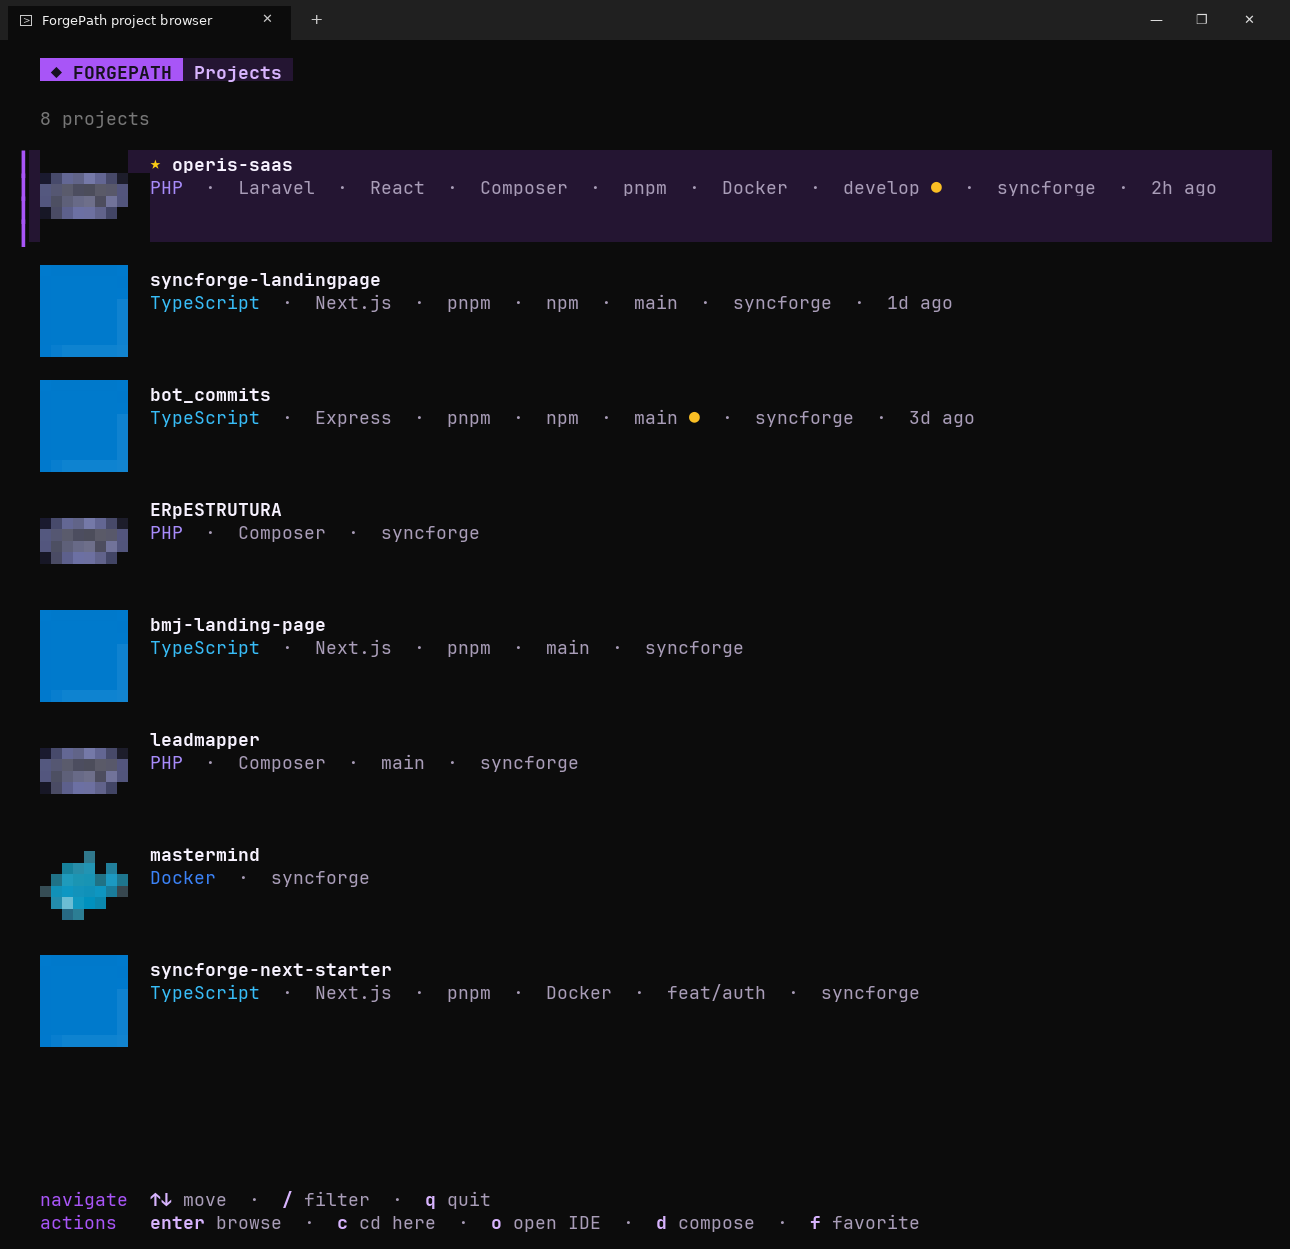
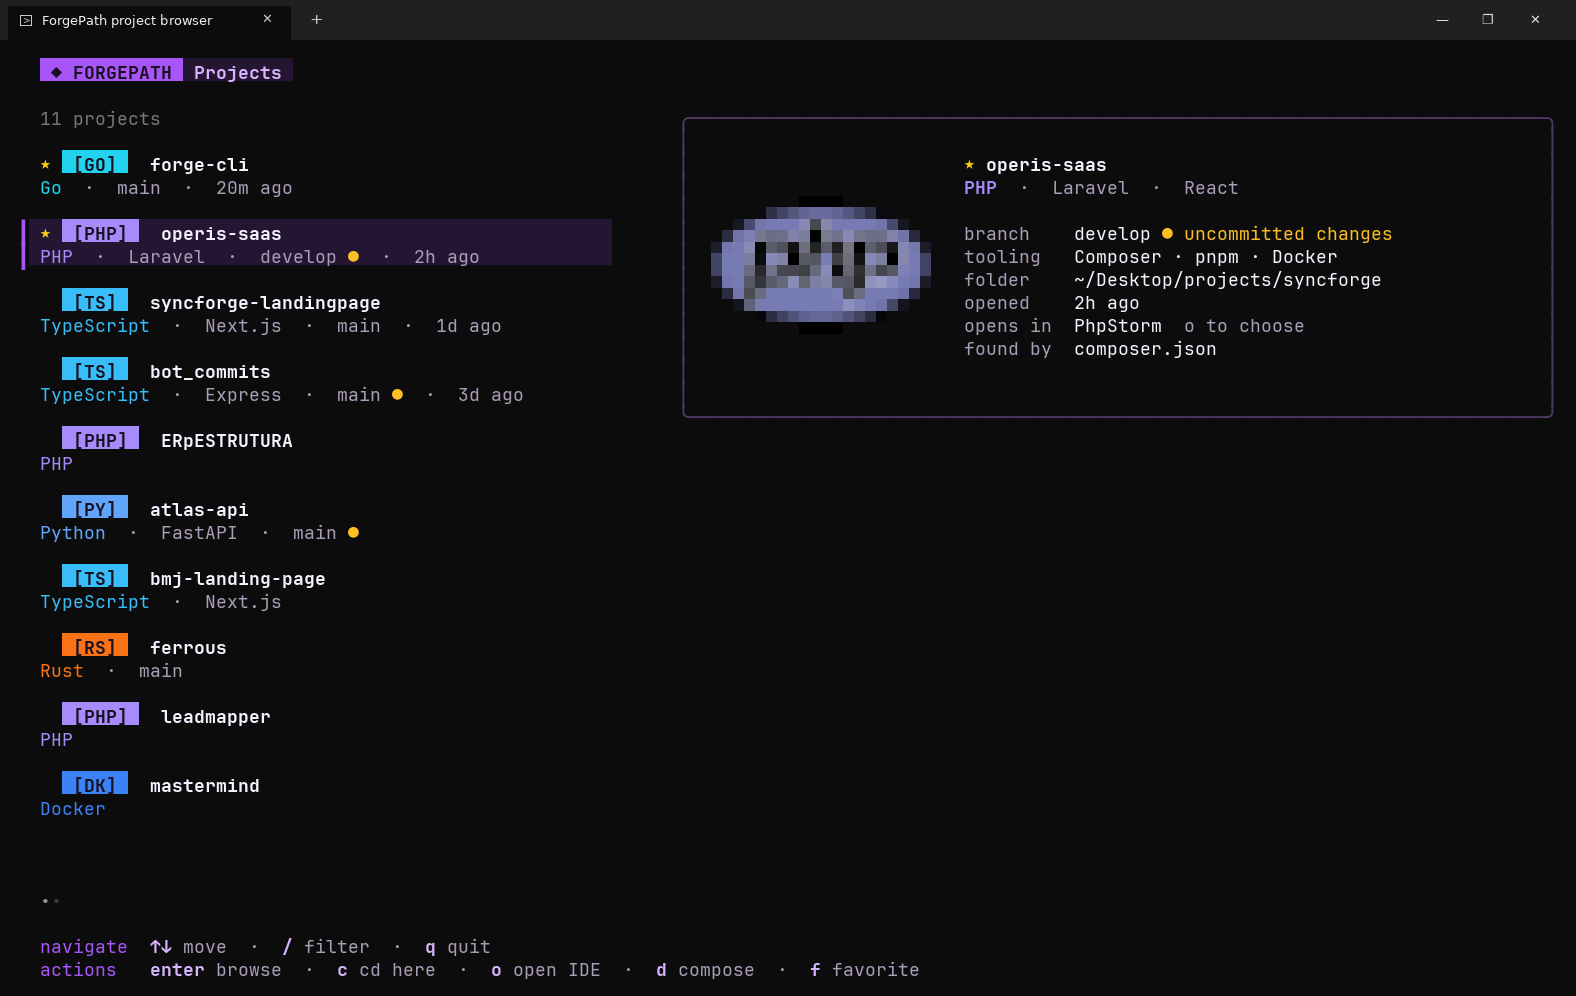
docs: document the inspector panel and update the screenshot

diff --git a/README.pt-BR.md b/README.pt-BR.md
@@ -16,7 +16,7 @@ O ForgePath centraliza esse fluxo de trabalho em uma interface interativa de ter
 
 ![Demonstração do ForgePath CLI](docs/demo.png)
 
-*A lista de projetos: favoritos primeiro, projetos recentes com quando foram abertos pela última vez, a branch Git com ● para mudanças não commitadas e o rodapé com todas as ações da tela.*
+*A lista de projetos com o painel de inspeção: o logo, o estado do Git, as ferramentas, a pasta e a IDE sugerida do projeto selecionado. Os favoritos vêm primeiro, e os projetos recentes mostram quando foram abertos pela última vez.*
 
 ## Objetivos
 
@@ -75,6 +75,7 @@ Os frameworks e ferramentas compatíveis incluem:
 * Pesquisar projetos com filtro fuzzy
 * Navegar com as setas renderizando apenas os projetos visíveis
 * Navegar pelas pastas dos projetos sem sair da interface do terminal
+* Mostrar o item selecionado num painel de inspeção em terminais largos: o logo da tecnologia, o estado do Git, as ferramentas, a pasta, quando foi aberto e a IDE sugerida, o conteúdo de uma pasta ou o arquivo Docker Compose antes de ser gerado
 * Renderizar os logos Devicon embutidos com pixels ANSI truecolor
 * Mostrar a branch atual do Git
 * Indicar alterações não commitadas
@@ -311,7 +312,7 @@ fg pick --print-path
 
 Navega pelos projetos e imprime o diretório atual somente depois que `c` é pressionado. Essa saída legível por máquina é usada pela integração com o shell.
 
-O seletor incorpora os SVGs locais do Devicon no binário, rasteriza os arquivos e renderiza suas cores reais com pixels ANSI de meio bloco por padrão. Isso não exige Nerd Font nem um protocolo de imagens específico do terminal. Use badges de texto ou glifos Nerd Font explicitamente quando preferir:
+Em terminais com pelo menos 100 colunas, o seletor mostra um painel de inspeção ao lado da lista. Em terminais truecolor o painel desenha o logo da tecnologia: os SVGs do Devicon são incorporados ao binário, rasterizados em 20×20 pixels e desenhados com caracteres ANSI de meio bloco, sem exigir Nerd Font nem um protocolo de imagens específico do terminal. As linhas da lista sempre usam badges de texto compactos. Para usar badges ou glifos Nerd Font em tudo:
 
 ```bash
 fg --icons ascii

diff --git a/CLAUDE.md b/CLAUDE.md
@@ -39,11 +39,12 @@ Flow: `cmd/fg/main.go` → `cli.NewRootCommand` → scan workspaces → decorate
   - `actionTarget` decides what `o`/`d` act on.
   - The list's own help is hidden. `footerView` draws a two-line footer (navigate / actions from `screenKeys`), and the list height is the window height minus `footerHeight`.
   - `f`, `d` and `o` are removed from or intercepted before the list's page keys, so they never page the list.
+  - `inspector.go`: from `splitMinWidth` (100) columns, `bodyView` puts an inspector panel next to the list (`resize` narrows the list). It describes the highlighted item per screen; with an empty list it shows the current folder or onboarding. The panel is as tall as its content.
   - Optional behavior comes in through `Options`: `ToggleFavorite` (the `f` key is hidden without it), `Hint` (status message on start) and `Now` (clock for "2h ago").
   - Any `*Model` method that changes `m.list` (status messages, items) must use a pointer receiver. With a value receiver the change lands on a copy and is lost; this once hid every error message.
   - Row rendering: inner lipgloss styles end with a reset, so the selected row's background has to be carried into every segment (`newRowStyles`). `rowContainer` keeps selected and unselected rows the same width.
 - **`internal/ide`**: discovers installed IDEs (PATH, JetBrains Toolbox, Snap, Flatpak, `/Applications`, Windows install dirs) and ranks them per technology.
-- **`internal/icon`** + **`public/icons`**: Devicon SVGs are `go:embed`ded (`public/icons/assets.go`) and rasterized to ANSI half-block truecolor (`oksvg`/`rasterx`). Modes: `auto`, `graphics`, `ascii`, `nerd-font`.
+- **`internal/icon`** + **`public/icons`**: Devicon SVGs are `go:embed`ded (`public/icons/assets.go`) and rasterized to ANSI half-block truecolor (`oksvg`/`rasterx`) by `GraphicSized`. `normalizeArcFlags` must run before oksvg: packed arc flags otherwise erase shapes (the TS letters, the Swift bird). Modes: `auto` (graphics on truecolor, else ascii), `graphics`, `ascii`, `nerd-font`. Logos are only drawn in the TUI inspector; list rows always use text badges or Nerd Font glyphs, because 8 px logos are illegible.
 
 ### Cross-cutting changes
 

diff --git a/README.md b/README.md
@@ -16,7 +16,7 @@ ForgePath centralizes this workflow in an interactive terminal interface.
 
 ![ForgePath CLI Demonstration](docs/demo.png)
 
-*The project list: favorites first, recent projects with when they were last opened, the Git branch with ● for uncommitted changes, and the footer with every action of the screen.*
+*The project list with the inspector panel: the logo, Git state, tooling, folder and suggested IDE of the highlighted project. Favorites come first, and recent projects show when they were last opened.*
 
 ## Goals
 
@@ -75,6 +75,7 @@ Supported frameworks and tools include:
 * Search projects using fuzzy filtering
 * Navigate with the arrow keys while rendering only the visible projects
 * Browse project directories without leaving the terminal interface
+* Show the highlighted item in an inspector panel on wide terminals: the technology logo, Git state, tooling, folder, last opened time and suggested IDE, a folder's contents, or the Docker Compose file before it is generated
 * Render the embedded Devicon technology logos with ANSI truecolor pixels
 * Show the current Git branch
 * Indicate uncommitted changes
@@ -311,7 +312,7 @@ fg pick --print-path
 
 Browse projects and print the current directory only after `c` is pressed. This machine-readable output is used by the shell integration.
 
-The selector embeds the local Devicon SVGs in the binary, rasterizes them, and renders their real colors with ANSI half-block pixels by default. This does not require a Nerd Font or a terminal-specific image protocol. Use text badges or Nerd Font glyphs explicitly when preferred:
+On terminals at least 100 columns wide, the selector shows an inspector panel next to the list. On truecolor terminals the panel draws the technology logo: the Devicon SVGs are embedded in the binary, rasterized at 20×20 pixels and drawn with ANSI half-block characters, without a Nerd Font or a terminal-specific image protocol. List rows always use compact text badges. Choose badges or Nerd Font glyphs everywhere with:
 
 ```bash
 fg --icons ascii

diff --git a/public/icons/README.md b/public/icons/README.md
@@ -12,8 +12,12 @@ remote CDN.
 Product names and logos remain the property of their respective owners. The
 assets are intended only to identify the detected technology.
 
-ForgePath embeds these files in the Go binary, rasterizes each SVG to a small
-RGBA canvas, and renders the pixels with ANSI truecolor half-block characters.
+ForgePath embeds these files in the Go binary, rasterizes each SVG to an RGBA
+canvas (20×20 in the inspector panel), and renders the pixels with ANSI
+truecolor half-block characters. Before rasterizing, path arcs with packed
+flags (`a15 15 0 017.8 4.5`) are expanded because oksvg misreads them, and
+logos drawn almost entirely in black (Rust) are tinted so they stay visible on
+dark terminals.
 This keeps the original logo colors without requiring a terminal-specific
 image protocol. Text badges and Nerd Font glyphs remain available as explicit
 fallback modes.
